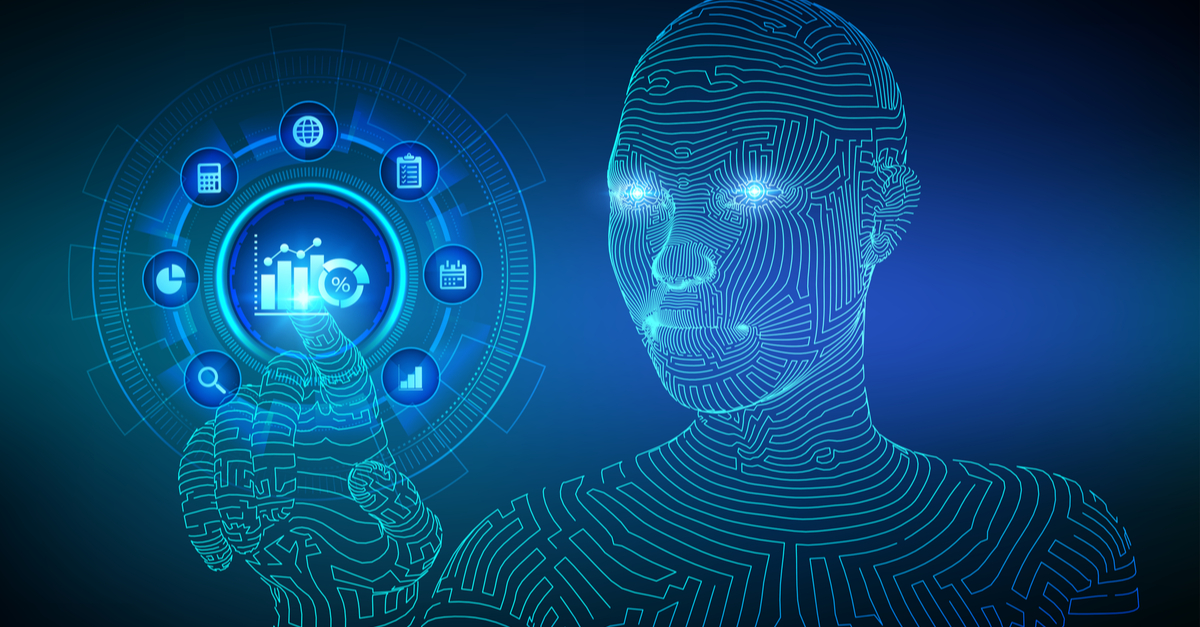
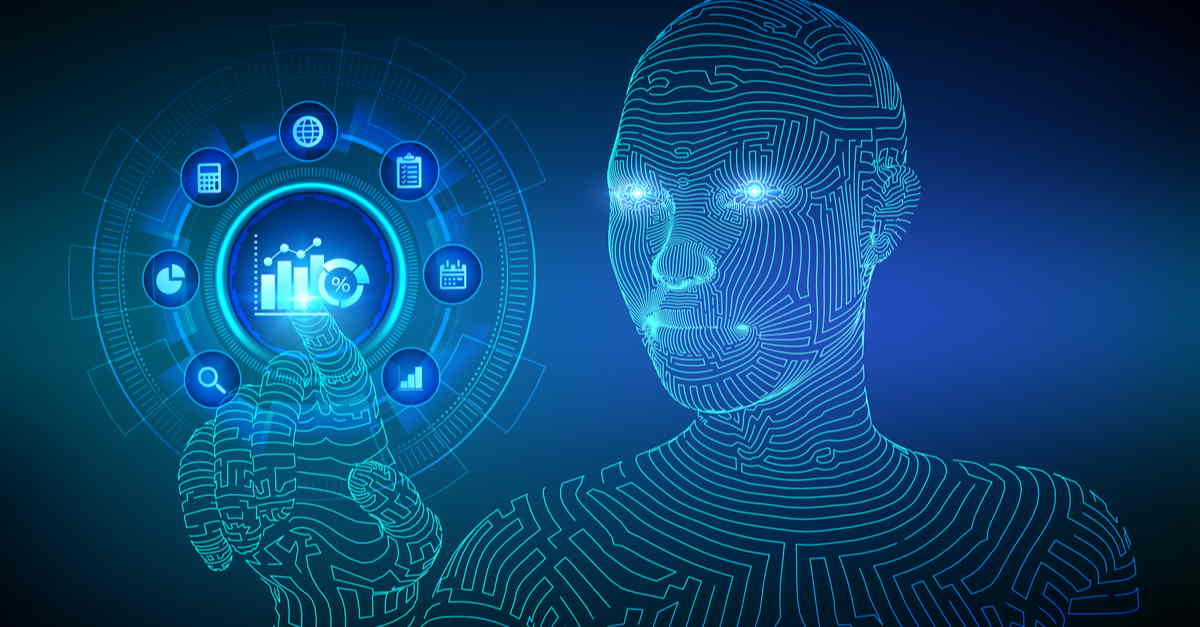
Decreasing images sizes

diff --git a/index.html b/index.html
@@ -570,7 +570,7 @@
                                         <p>Analytics is a field that has seen incredible growth over the last decade due to the data revolution. Every industry is now producing unparalleled amounts of data, and the key-players are always seeking ways to capitalize on it. We expect that the combination of RPA and Analytics will be a crucial driver for companies to stay ahead of their competitors. Combining analytics services with RPA enables companies to streamline, standardize, and have a higher level of control over their operations and business processes, enhancing monitoring, decision-making, reporting, and managing capabilities. RPA also provides a bridge between analytics information and functional processes. It can improve master data. It can also support data-driven organizations' complexity by establishing the process pipelines that coordinate analytics services and capabilities.</p>
                                     </span>
                                     <div class="image-border">
-                                        <img src="assets/img/rpa1.jpeg" alt="">
+                                        <img src="assets/img/rpa1.jpg" alt="">
                                     </div>
                                 </span>
                                 <p>The main goal of every RPA team is to emulate human behavior in automation for more efficient and lower-cost processes. AI/ML is known to enable digital transformation in old, inefficient, and manual processes. Therefore, it makes sense to join these two areas to get better results, governance, and highly scalable solutions. AI is a vast topic, so we propose to divide it into three main areas where it can help RPA with the next step.</p>
@@ -591,7 +591,7 @@
                                         <p>These techniques can often be already part of the RPA tool. Therefore, it's essential to understand all of them and how they can be used before choosing the platform for business automation.</p>
                                     </span>
                                     <div class="image-border">
-                                        <img src="assets/img/rpa2.jpeg" alt="">
+                                        <img src="assets/img/rpa2.jpg" alt="">
                                     </div>
                                 </span>
                                 <h2 class="text-left mb-4">Conclusion</h2> 
@@ -797,7 +797,7 @@
                         <div class="row">
                             <div class="col-lg-6">
                                 <div class="image-border">
-                                    <img src="assets/img/about.png" alt="/">
+                                    <img src="assets/img/about.jpg" alt="/">
                                 </div>
                             </div>
                             <div class="col-lg-6 mt-4 mt-lg-0">
